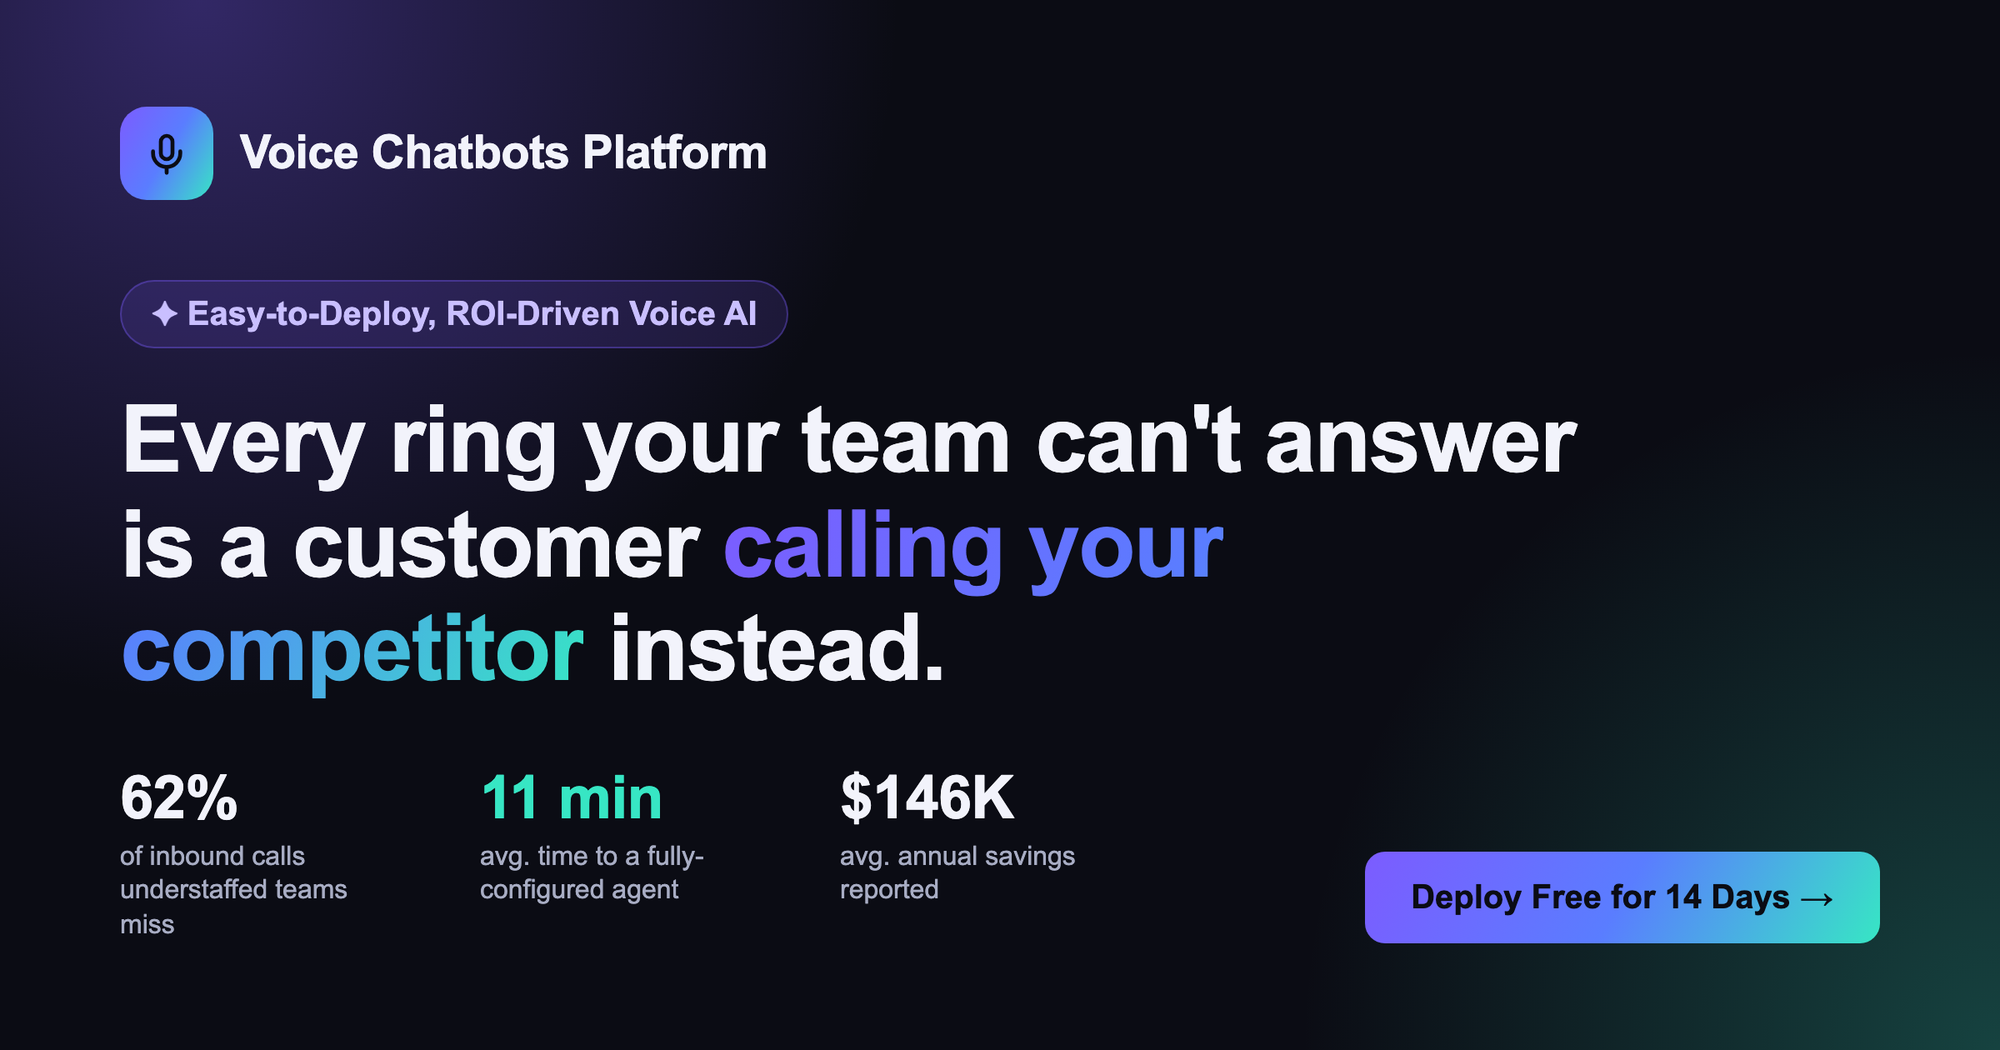
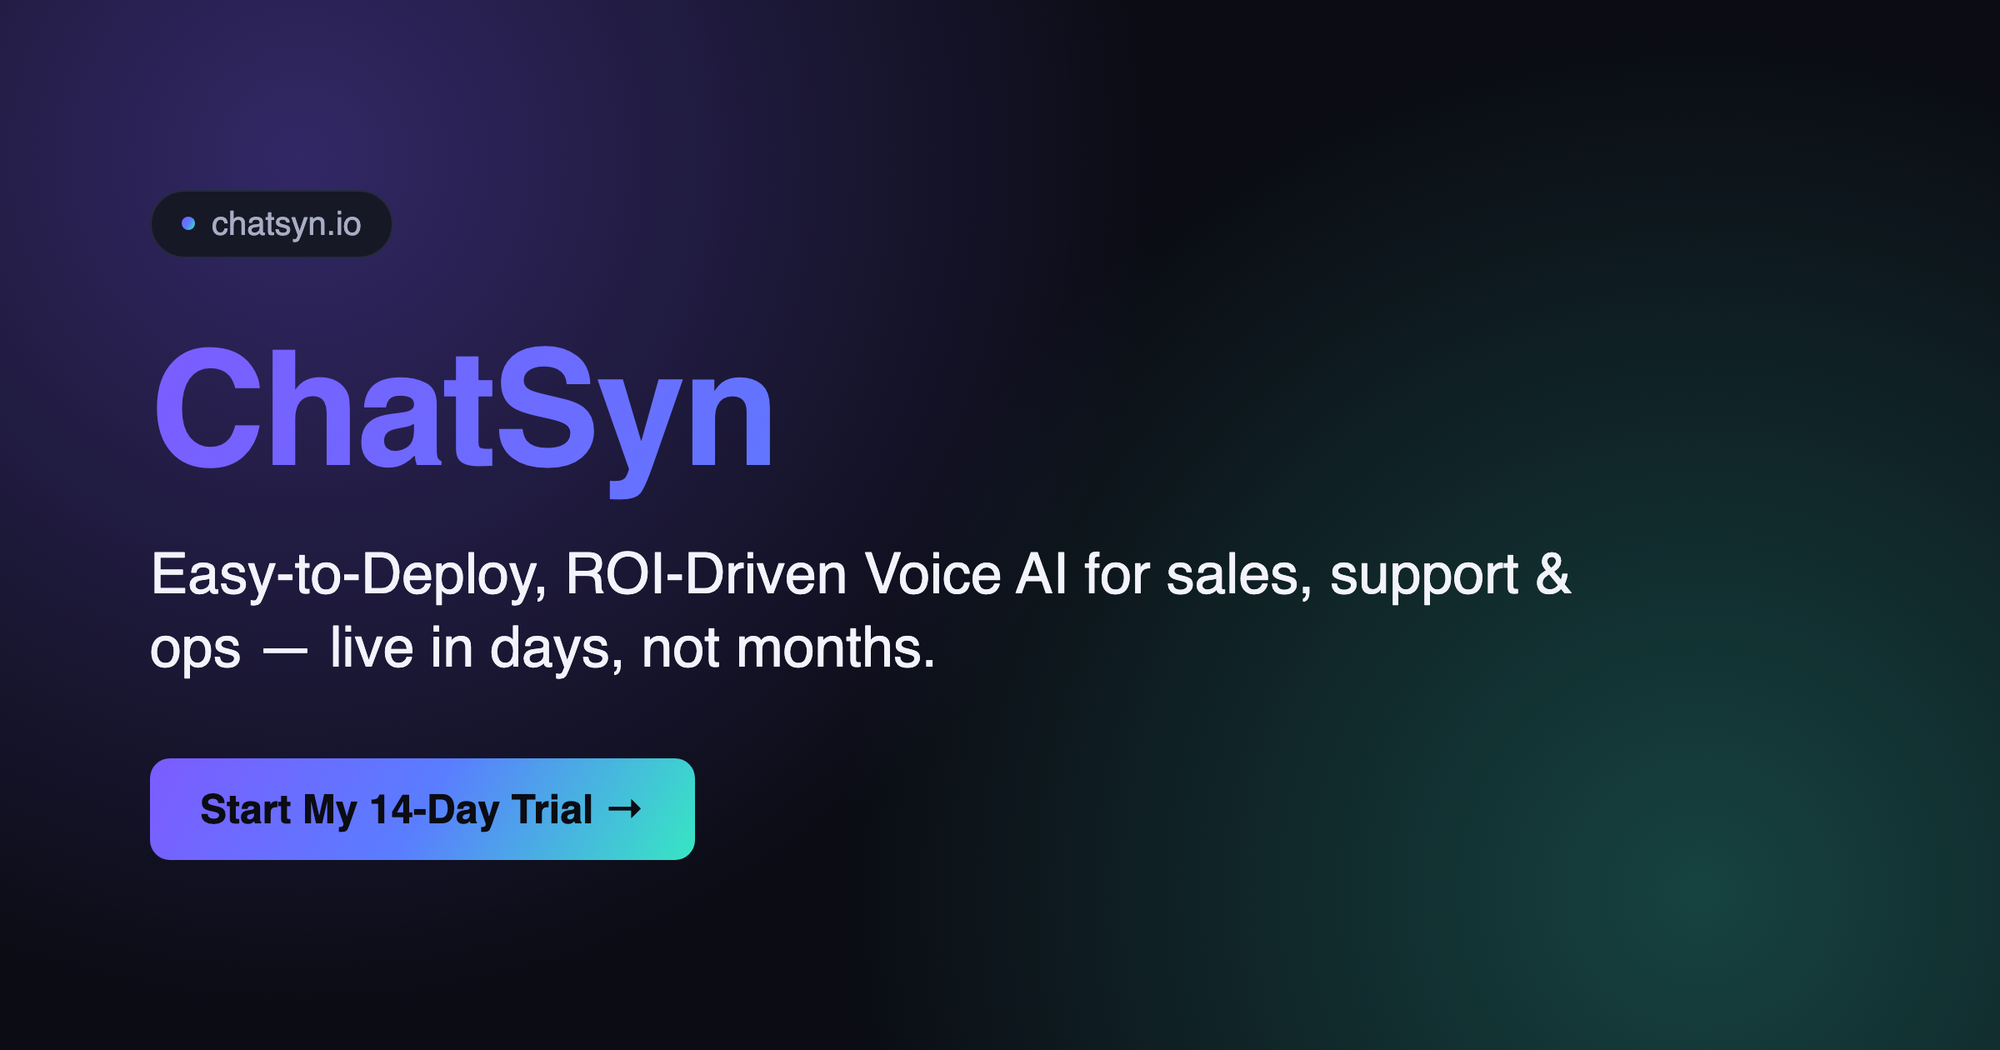
Rebrand: Voice Chatbots Platform -> ChatSyn (chatsyn.io)
Externally-visible name change only, per user request: all page titles,
metadata, nav/footer logo text, FAQ copy, and og:image/social card now
read ChatSyn. Domain refs (metadataBase, Supabase auth site_url +
redirect URLs) updated to chatsyn.io. Internal-only identifiers
(package.json name, GitHub repo name) intentionally left unchanged.

diff --git a/components/faq-accordion.tsx b/components/faq-accordion.tsx
@@ -5,7 +5,7 @@ import { useState } from "react";
 const FAQS = [
   {
     q: "Why not just build this on Google Dialogflow or Amazon Lex?",
-    a: "You can — if you have a developer team and a few months to spend. Dialogflow and Lex are toolkits, not finished products: you're building the conversation flows, the NLU tuning, and the integrations yourself from scratch. Voice Chatbots Platform starts where those tools finish — pre-trained templates for your specific industry and use case, configured through a no-code interface, live in days.",
+    a: "You can — if you have a developer team and a few months to spend. Dialogflow and Lex are toolkits, not finished products: you're building the conversation flows, the NLU tuning, and the integrations yourself from scratch. ChatSyn starts where those tools finish — pre-trained templates for your specific industry and use case, configured through a no-code interface, live in days.",
   },
   {
     q: "We tried a voice bot before and it couldn't understand our customers. What's different here?",
@@ -17,7 +17,7 @@ const FAQS = [
   },
   {
     q: "Why would we choose you over an enterprise platform like LivePerson?",
-    a: "Enterprise platforms are built and priced for organizations with dedicated implementation budgets and multi-month rollout timelines. We built Voice Chatbots Platform specifically for the businesses that gap leaves behind: flat, transparent pricing, no six-figure contract, and a self-serve deployment that a business owner or ops manager can run without a vendor implementation team.",
+    a: "Enterprise platforms are built and priced for organizations with dedicated implementation budgets and multi-month rollout timelines. We built ChatSyn specifically for the businesses that gap leaves behind: flat, transparent pricing, no six-figure contract, and a self-serve deployment that a business owner or ops manager can run without a vendor implementation team.",
   },
   {
     q: "What happens after the 14-day trial if it's not the right fit?",

diff --git a/app/page.tsx b/app/page.tsx
@@ -21,7 +21,7 @@ export default function Home() {
               <span className="grad">calling your competitor instead.</span>
             </h1>
             <p className="hero-sub">
-              Voice Chatbots Platform gives your sales, support, and operations lines a
+              ChatSyn gives your sales, support, and operations lines a
               pre-trained AI voice agent that picks up every call, qualifies it, and
               resolves it — 24/7, in your industry&apos;s language, with no developers and
               no six-month rollout.
@@ -103,7 +103,7 @@ export default function Home() {
                 <div className="stat-num">$146K</div>
                 <div className="stat-label">
                   average annual savings reported by mid-market customers who
-                  replaced overflow call staffing with Voice Chatbots Platform.
+                  replaced overflow call staffing with ChatSyn.
                 </div>
               </div>
             </div>
@@ -560,7 +560,7 @@ export default function Home() {
                     />
                   </svg>
                 </span>
-                Voice Chatbots Platform
+                ChatSyn
               </div>
               <p>
                 Easy-to-deploy, ROI-driven voice AI for sales, support, and
@@ -585,7 +585,7 @@ export default function Home() {
             </div>
           </div>
           <div className="footer-bottom">
-            <span>© 2026 Voice Chatbots Platform. All rights reserved.</span>
+            <span>© 2026 ChatSyn. All rights reserved.</span>
             <span>Made for teams tired of missed calls.</span>
           </div>
         </div>

diff --git a/app/update-password/page.tsx b/app/update-password/page.tsx
@@ -2,7 +2,7 @@ import type { Metadata } from "next";
 import { UpdatePasswordForm } from "@/components/update-password-form";
 
 export const metadata: Metadata = {
-  title: "Set New Password — Voice Chatbots Platform",
+  title: "Set New Password — ChatSyn",
 };
 
 export default function UpdatePasswordPage() {
@@ -27,7 +27,7 @@ export default function UpdatePasswordPage() {
               />
             </svg>
           </span>
-          Voice Chatbots Platform
+          ChatSyn
         </div>
         <h1 className="auth-title">Set a new password</h1>
         <p className="auth-subtitle">Choose a new password for your account.</p>

diff --git a/app/forgot-password/page.tsx b/app/forgot-password/page.tsx
@@ -3,7 +3,7 @@ import type { Metadata } from "next";
 import { ForgotPasswordForm } from "@/components/forgot-password-form";
 
 export const metadata: Metadata = {
-  title: "Reset Password — Voice Chatbots Platform",
+  title: "Reset Password — ChatSyn",
 };
 
 export default function ForgotPasswordPage() {
@@ -31,7 +31,7 @@ export default function ForgotPasswordPage() {
               />
             </svg>
           </span>
-          Voice Chatbots Platform
+          ChatSyn
         </div>
         <h1 className="auth-title">Forgot your password?</h1>
         <p className="auth-subtitle">

diff --git a/app/layout.tsx b/app/layout.tsx
@@ -9,12 +9,12 @@ const jakarta = Plus_Jakarta_Sans({
   display: "swap",
 });
 
-const title = "Voice Chatbots Platform — Easy-to-Deploy, ROI-Driven Voice AI";
+const title = "ChatSyn — Easy-to-Deploy, ROI-Driven Voice AI";
 const description =
   "Pre-trained, no-code voice AI agents for sales, support, and internal ops — live in days, not months. Deploy free for 14 days.";
 
 export const metadata: Metadata = {
-  metadataBase: new URL("https://voice-chatbots-platform-v1.vercel.app"),
+  metadataBase: new URL("https://chatsyn.io"),
   title,
   description,
   openGraph: {

diff --git a/app/login/page.tsx b/app/login/page.tsx
@@ -4,7 +4,7 @@ import type { Metadata } from "next";
 import { LoginForm } from "@/components/login-form";
 
 export const metadata: Metadata = {
-  title: "Log In — Voice Chatbots Platform",
+  title: "Log In — ChatSyn",
 };
 
 export default function LoginPage() {
@@ -32,7 +32,7 @@ export default function LoginPage() {
               />
             </svg>
           </span>
-          Voice Chatbots Platform
+          ChatSyn
         </div>
         <h1 className="auth-title">Welcome back</h1>
         <p className="auth-subtitle">Log in to manage your voice agents.</p>

diff --git a/app/signup/page.tsx b/app/signup/page.tsx
@@ -3,7 +3,7 @@ import type { Metadata } from "next";
 import { SignupForm } from "@/components/signup-form";
 
 export const metadata: Metadata = {
-  title: "Sign Up — Voice Chatbots Platform",
+  title: "Sign Up — ChatSyn",
 };
 
 export default function SignupPage() {
@@ -31,7 +31,7 @@ export default function SignupPage() {
               />
             </svg>
           </span>
-          Voice Chatbots Platform
+          ChatSyn
         </div>
         <h1 className="auth-title">Create your account</h1>
         <p className="auth-subtitle">

diff --git a/app/dashboard/page.tsx b/app/dashboard/page.tsx
@@ -9,7 +9,7 @@ import { TopicsList } from "@/components/topics-list";
 import { computeDashboardMetrics, formatDuration, type CallRow } from "@/lib/dashboard";
 
 export const metadata: Metadata = {
-  title: "Dashboard — Voice Chatbots Platform",
+  title: "Dashboard — ChatSyn",
 };
 
 const RANGE_OPTIONS = [7, 14, 30] as const;

diff --git a/app/voice-test/page.tsx b/app/voice-test/page.tsx
@@ -5,7 +5,7 @@ import { AppHeader } from "@/components/app-header";
 import { VoiceTestConsole } from "@/components/voice-test-console";
 
 export const metadata: Metadata = {
-  title: "Voice Test Console — Voice Chatbots Platform",
+  title: "Voice Test Console — ChatSyn",
 };
 
 export default async function VoiceTestPage() {

diff --git a/app/settings/page.tsx b/app/settings/page.tsx
@@ -7,7 +7,7 @@ import { VoiceSettingsPanel } from "@/components/voice-settings-panel";
 import { ElevenLabsPanel } from "@/components/elevenlabs-panel";
 
 export const metadata: Metadata = {
-  title: "Settings — Voice Chatbots Platform",
+  title: "Settings — ChatSyn",
 };
 
 export default async function SettingsPage({

diff --git a/app/admin/settings/page.tsx b/app/admin/settings/page.tsx
@@ -7,7 +7,7 @@ import { getOrgSettings } from "@/app/admin/actions";
 import { getOrgContext } from "@/lib/org-context";
 
 export const metadata: Metadata = {
-  title: "Admin Settings — Voice Chatbots Platform",
+  title: "Admin Settings — ChatSyn",
 };
 
 export default async function AdminSettingsPage() {

diff --git a/app/admin/page.tsx b/app/admin/page.tsx
@@ -11,7 +11,7 @@ import { getOrgContext } from "@/lib/org-context";
 import { formatDuration } from "@/lib/dashboard";
 
 export const metadata: Metadata = {
-  title: "Admin Overview — Voice Chatbots Platform",
+  title: "Admin Overview — ChatSyn",
 };
 
 const RANGE_OPTIONS = [7, 14, 30] as const;
